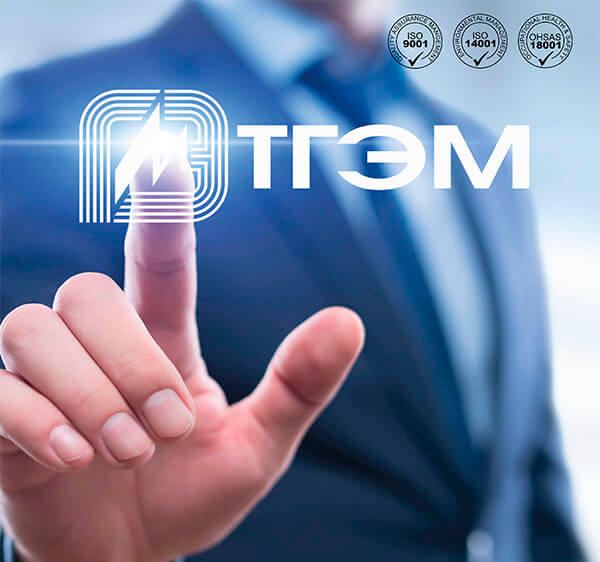
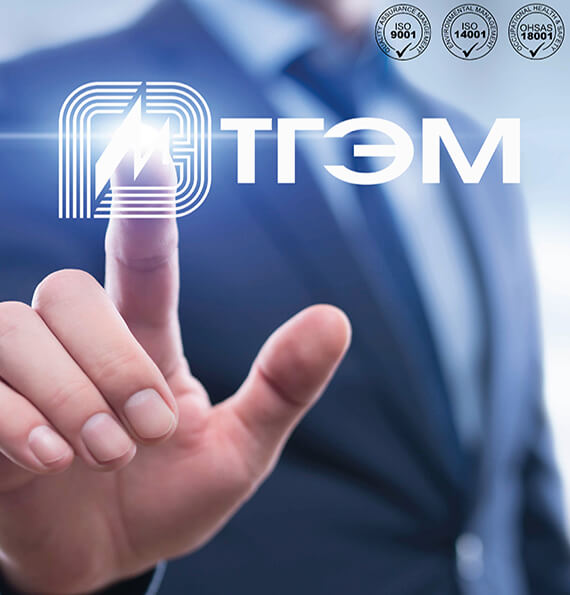
Text content fixed

diff --git a/public/css/home.css b/public/css/home.css
@@ -111,7 +111,7 @@
 }
 .home__about-text {
     width: 50%;
-    padding: 70px 55px;
+    padding: 60px 55px;
     background-position: left bottom;
     background-repeat: no-repeat;
     background-color: #f5f5f5;
@@ -129,16 +129,17 @@
 .home__about-img-container {
     position: relative;
     width: 50%;
+    display: flex;
 }
 .home__about-img {
-    object-fit: contain;
+    object-fit: cover;
     width: 100%;
     height: 100%;
 }
 .experience-box {
     position: absolute;
     right: -25px;
-    bottom: 30px;
+    bottom: 26px;
 }
 .experience-box::before {
     position: absolute;

diff --git a/database/seeders/ProjectsSeeder.php b/database/seeders/ProjectsSeeder.php
@@ -28,6 +28,8 @@ class ProjectsSeeder extends Seeder
         //-----------COMPLETED Projects----------
         $titles = ["Строительство ЛЭП в ИР Афганистан", "ПС «Ромит» 110/10 кВ", "Проект АСКУЭ (Худжанд)", "ПС «Темурмалик»  110/10 кВ", "Строительство школы", "КРУЭ 500/220 кВ", "Проект снижения потерь электроэнергии в Согдийской области", "ПС «КОРЕЗ» 110/35/10 кВ", "Региональный проект по передачи электроэнергии Таджикистана", "ПС РАВШАН” 220/110/10 кВ", "Проект «SCADA»", "ПС «ВАХДАТ 110/10 кВ»", "Международный аэропорт Душанбе", "Электроснабжение рудника “ЗАРНИСОР”", "HYATT REGENCY HOTEL и БЦ “СОЗИДАНИЕ”", "Сангтудинская ГЭС 1", "Нурекская ГЭС"];
 
+        $group_id = [1,2,2,2,1,2,2,2,1,2,2,2,2,2,2,2,2];
+
         $created_at = [
             date_create_from_format("Y-m-d  H:i:s", "2021-10-15 12:00:00"),
             date_create_from_format("Y-m-d  H:i:s", "2021-10-15 12:01:00"),
@@ -212,7 +214,7 @@ class ProjectsSeeder extends Seeder
             $project->image = $images[$i];
             $project->created_at = $created_at[$i];
             $project->completed = 1;
-            $project->project_group_id = rand(1,2);
+            $project->project_group_id = $group_id[$i];
             $project->url = Helper::transliterate_into_latin($titles[$i]);
             $project->save();
         }
@@ -231,6 +233,7 @@ class ProjectsSeeder extends Seeder
 
         //-----------UNCOMPLETED Projects----------
         $titles = ["Строительство завода по производству электрооборудования", "Реабилитация Нурекской ГЭС", "Реабилитация Кайраккумской ГЭС", "Проект АСКУЭ (Душанбе)", "CASA 1000", "Строительство правобережных сооружений Рогунской ГЭС. Лот-3", "Строительство плотины Рогунской ГЭС. Лот-2"];
+        $group_id = [1,2,2,2,1,1,1];
 
         $created_at = [
             date_create_from_format("Y-m-d  H:i:s", "2021-10-16 12:00:00"),
@@ -322,7 +325,7 @@ class ProjectsSeeder extends Seeder
             $project->image = $images[$i];
             $project->created_at = $created_at[$i];
             $project->completed = 0;
-            $project->project_group_id = rand(1,2);
+            $project->project_group_id = $group_id[$i];
             $project->url = Helper::transliterate_into_latin($titles[$i]);
             $project->save();
         }

diff --git a/database/seeders/PagesSeeder.php b/database/seeders/PagesSeeder.php
@@ -142,8 +142,8 @@ class PagesSeeder extends Seeder
         $page = Page::where("title", "О Нас")->first();
         $page->image = "about.jpg";
         $page->main_text = "<h1>Строительство<br /> И Гидроэнергетика</h1>
-        <p>ТГЭМ &ndash; ведущая таджикская компания по строительству гидроэнергетических и инфраструктурных объектов.</p>
-        <p>За более чем полувековую историю своего существования наша компания выполнила и продолжает выполнять строительные, электромонтажные и пусконаладочные работы на большиства крупных объектах Республики Таджикистан и за ее пределами.</p>
+        <p>ТГЭМ – ведущая компания по строительству гидроэнергетических и инфраструктурных объектов.</p>
+        <p>За более чем полувековую историю своего существования наша компания выполнила и продолжает выполнять строительные, электромонтажные и пусконаладочные работы на большинстве крупных объектах Республики Таджикистан и за ее пределами.</p>
         <p>В процессе своей профессиональной деятельности мы придаем большое значение инновациям и внимательно следим за появлением новых технологий, материалов и оборудования, которые могут повысить эффективность реализации проектов, в первую очередь, для заказчика и надежности работы. Мы всегда рады сотрудничеству с новыми партнерами и стараемся использовать наиболее продуктивные способы для достижения общих целей.</p>";
         $page->additional_text_title = '';
         $page->additional_text_body = '';

diff --git a/database/seeders/SliderSeeder.php b/database/seeders/SliderSeeder.php
@@ -14,13 +14,13 @@ class SliderSeeder extends Seeder
      */
     public function run()
     {
-        $crumb = ["Главная Конструкция", "Главная Конструкция"];
-        $title = ["Строим будущее вместе", "Кайракумская ГЭС"];
-        $description = ["Ведущая таджикская компания по строительству гидроэнергетических и инфраструктурных объектов", "Ведущая таджикская компания по строительству гидроэнергетических и инфраструктурных объектов"];
-        $image = ["slide1.jpg", "slide2.jpg"];
-        $link = ["#", "#"];
-        $video = ["https://www.youtube.com/", "https://www.youtube.com/"];
-        $priority = [1,2];
+        $crumb = ["Главная Конструкция", "Главная Конструкция", "Главная"];
+        $title = ["Строим будущее вместе", "Кайраккумская ГЭС", "Нурекская ГЭС"];
+        $description = ["Ведущая таджикская компания по строительству гидроэнергетических и инфраструктурных объектов", "В настоящее время TГЭМ совместно с Cobra занимаются реабилитацией Кайраккумской ГЭС. В рамках проекта планируется заменить 6 турбин и генераторов, а также часть вспомогательных систем. Общая установленная мощность станции будет увеличена на 35% и составит 174 МВт.", "Безопасность плотин P2.1 – Исследования и мониторинг P4 – ОРУ"];
+        $image = ["slide1.jpg", "slide2.jpg", "слайдера Нурекская ГЭС.jpg"];
+        $link = ["#", "#", "#"];
+        $video = ["https://www.youtube.com/", "https://www.youtube.com/", "https://www.youtube.com/"];
+        $priority = [1,2,3];
 
         for ($i = 0; $i < count($title); $i++) {
             $slider = new Slider();

diff --git a/resources/views/home/index.blade.php b/resources/views/home/index.blade.php
@@ -34,7 +34,10 @@
             <div class="home__about-text" style="background-image: url('{{ asset('img/archive/home-pattern.png') }}')">
                 <h2 class="title--styled title--styled-left"><span class="seperator--left"></span>О компании</h2>
                 <h1 class="main-title home__about-title">Строительство  <br>и гидроэнергетика</h1>
-                <p class="home__about-desc">За более чем полувековую историю своего существования наша компания выполнила и продолжает выполнять строительные, электромонтажные и пусконаладочные работы на большиства крупных объектах Республики Таджикистан и за ее пределами.</p>
+                <p class="home__about-desc">
+                    ТГЭМ – ведущая компания по строительству гидроэнергетических и инфраструктурных объектов.<br><br>
+                    За более чем полувековую историю своего существования наша компания выполнила и продолжает выполнять строительные, электромонтажные и пусконаладочные работы на большинстве крупных объектах Республики Таджикистан и за ее пределами.
+                </p>
                 <div class="home__about-more">
                     <a href="about/about_us" class="button main-btn"><span class="main-btn__text">Подробнее</span></a>
                 </div>

diff --git a/resources/views/dashboard/slider/single.blade.php b/resources/views/dashboard/slider/single.blade.php
@@ -21,7 +21,7 @@
 
     <div class="form-group">
         <label class="label">Описание слайда <span class="required">*</span></label>
-        <textarea class="textarea" name="description" required>{{ old("description") == '' ? $slide->description : old("description") }}</textarea>
+        <textarea class="textarea" name="description" rows="5" required>{{ old("description") == '' ? $slide->description : old("description") }}</textarea>
     </div>
 
     <div class="form-group">
